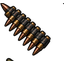
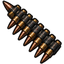
Cut the cursors by their own pixels, not by a grid line
He spotted it: "the grenade did have an extra bit of something below it too... and so did
the chopper". Measured, and he was right - grenade cropped to 91x125 and huey to 138x125,
both EXACTLY the full cell height, which is the signature of a bounding box running into
the cell boundary and taking a sliver of the icon below.

THE GRID WAS NEVER REAL. The sheet is 560x376 and reads as 4x3, but 376/3 is not an
integer, so every row boundary landed a third of a pixel off and the tall icons paid for
it. Connected-component labelling finds each icon by its own alpha instead: exactly 12
blobs, 1:1 with the 12 icons, no boundary to straddle. Reading order comes from each
blob's own centre rather than a grid line.

  grenade  125 -> 108 tall
  huey     125 -> 106 tall

HAND-PLACED HOTSPOTS NOW SURVIVE A REGENERATION. cursors.json records the crop box each
point was placed against, and a hotspot is only reset when its BOX moved - because a
normalised point means something different against different art. His four placed tips
(bullet, knife, bayonet, kbar) were remapped through both crops - old canvas to sheet
pixel to new canvas - rather than thrown away. The eight round icons were still sitting at
the auto 0.5,0.5, so they are re-centred on the CLEAN crop, which is what centre should
have meant all along.

diff --git a/tools/gen_cursors.py b/tools/gen_cursors.py
@@ -13,13 +13,17 @@ Writes assets/ui/cursors/<name>_32.png, <name>_64.png and cursors.json (hotspots
 """
 import json
 import os
+from collections import deque
 
+import numpy as np
 from PIL import Image
 
 SRC = r"C:/Users/caleb/Desktop/Projects/RECON Vietnam/recon game image ideas/menu assets/cursors.png"
 OUT = os.path.join(os.path.dirname(__file__), "..", "assets", "ui", "cursors")
 SIZES = (64, 32)
-COLS, ROWS = 4, 3
+ROWS = 3
+## Anything smaller than this is a speck, not an icon.
+MIN_AREA = 400
 
 # Reading order, left to right, top to bottom.
 NAMES = [
@@ -37,10 +41,49 @@ POINTED = {"bullet", "knife", "bayonet", "kbar"}
 ALPHA_FLOOR = 8
 
 
-def _tight_box(img):
-    """Bounding box of everything meaningfully opaque."""
-    a = img.getchannel("A").point(lambda v: 255 if v > ALPHA_FLOOR else 0)
-    return a.getbbox()
+def _components(mask):
+    """Every connected blob of opaque pixels, 8-connected. The sheet is a GRID by eye but
+    not by arithmetic - 376/3 is not an integer - so slicing on a grid clipped the tall
+    icons and let a sliver of the one below into the crop. The art finds itself instead."""
+    h, w = mask.shape
+    lab = np.zeros((h, w), np.int32)
+    out = []
+    n = 0
+    for y in range(h):
+        for x in range(w):
+            if not mask[y, x] or lab[y, x]:
+                continue
+            n += 1
+            q = deque([(y, x)])
+            lab[y, x] = n
+            y0 = y1 = y
+            x0 = x1 = x
+            area = 0
+            while q:
+                cy, cx = q.popleft()
+                area += 1
+                y0, y1 = min(y0, cy), max(y1, cy)
+                x0, x1 = min(x0, cx), max(x1, cx)
+                for dy in (-1, 0, 1):
+                    for dx in (-1, 0, 1):
+                        ny, nx = cy + dy, cx + dx
+                        if 0 <= ny < h and 0 <= nx < w and mask[ny, nx] and not lab[ny, nx]:
+                            lab[ny, nx] = n
+                            q.append((ny, nx))
+            if area >= MIN_AREA:
+                out.append({"area": area, "box": (x0, y0, x1 + 1, y1 + 1)})
+    return out
+
+
+def _reading_order(comps, sheet_h):
+    """Left to right, top to bottom - by the blob's own centre, not by a grid line."""
+    band = sheet_h / ROWS
+    def key(c):
+        x0, y0, x1, y1 = c["box"]
+        cy = (y0 + y1) * 0.5
+        cx = (x0 + x1) * 0.5
+        return (int(cy // band), cx)
+    return sorted(comps, key=key)
 
 
 def _tip_xy(img):
@@ -59,23 +102,31 @@ def main():
     out_dir = os.path.abspath(OUT)
     os.makedirs(out_dir, exist_ok=True)
     sheet = Image.open(SRC).convert("RGBA")
-    sw, sh = sheet.size
-    cw, ch = sw / COLS, sh / ROWS
+
+    # HAND-PLACED HOTSPOTS SURVIVE. The slicer's automatic tip is a starting point; once a
+    # human has put the point on the blade in the editor, regenerating the art must not
+    # silently throw that away. A hotspot is only reset when its CROP moved, because a
+    # normalised point means something different against a different box.
+    prev = {}
+    jpath = os.path.join(out_dir, "cursors.json")
+    if os.path.exists(jpath):
+        with open(jpath) as f:
+            prev = json.load(f)
+
+    mask = np.array(sheet.getchannel("A")) > ALPHA_FLOOR
+    comps = _components(mask)
+    if len(comps) != len(NAMES):
+        print("EXPECTED %d icons, found %d - not slicing. Check the sheet." % (
+            len(NAMES), len(comps)))
+        return
+    comps = _reading_order(comps, sheet.height)
+
     meta = {}
-
-    for i, name in enumerate(NAMES):
-        col, row = i % COLS, i // COLS
-        cell = sheet.crop((int(col * cw), int(row * ch),
-                           int((col + 1) * cw), int((row + 1) * ch)))
-        box = _tight_box(cell)
-        if box is None:
-            print("  %-9s EMPTY CELL - skipped" % name)
-            continue
-        art = cell.crop(box)
-
+    kept = 0
+    for name, comp in zip(NAMES, comps):
+        art = sheet.crop(comp["box"])
+        box = list(comp["box"])
         for size in SIZES:
-            # Fit inside the square, never crop: a cursor that loses its own tip to a
-            # square canvas is a cursor that points at nothing.
             scale = min(size / art.width, size / art.height)
             w, h = max(1, round(art.width * scale)), max(1, round(art.height * scale))
             small = art.resize((w, h), Image.LANCZOS)
@@ -83,22 +134,30 @@ def main():
             ox, oy = (size - w) // 2, (size - h) // 2
             canvas.paste(small, (ox, oy))
             canvas.save(os.path.join(out_dir, "%s_%d.png" % (name, size)))
-
-            if size == SIZES[0]:
+            if size != SIZES[0]:
+                continue
+            old_entry = prev.get(name, {})
+            if old_entry.get("box") == box and "hotspot" in old_entry:
+                hot_n = old_entry["hotspot"]
+                kept += 1
+                note = "kept"
+            else:
                 if name in POINTED:
                     tx, ty = _tip_xy(small)
-                    hot = [ox + tx, oy + ty]
+                    hot = (ox + tx, oy + ty)
                 else:
-                    hot = [size // 2, size // 2]
-                # Stored NORMALISED so one number serves every output size.
-                meta[name] = {"hotspot": [hot[0] / size, hot[1] / size],
-                              "pointed": name in POINTED}
-        print("  %-9s art %3dx%-3d  hotspot %.2f,%.2f" % (
-            name, art.width, art.height, *meta[name]["hotspot"]))
+                    hot = (size // 2, size // 2)
+                hot_n = [hot[0] / size, hot[1] / size]
+                note = "AUTO (crop changed)" if name in prev else "auto"
+            meta[name] = {"hotspot": hot_n, "pointed": name in POINTED, "box": box}
+        print("  %-9s art %3dx%-3d  hotspot %.3f,%.3f  %s" % (
+            name, art.width, art.height, meta[name]["hotspot"][0],
+            meta[name]["hotspot"][1], note))
 
-    with open(os.path.join(out_dir, "cursors.json"), "w") as f:
+    with open(jpath, "w") as f:
         json.dump(meta, f, indent=1, sort_keys=True)
-    print("wrote %d cursors x %d sizes to %s" % (len(meta), len(SIZES), out_dir))
+    print("wrote %d cursors x %d sizes; %d hand-placed hotspot(s) preserved" % (
+        len(meta), len(SIZES), kept))
 
 
 if __name__ == "__main__":
